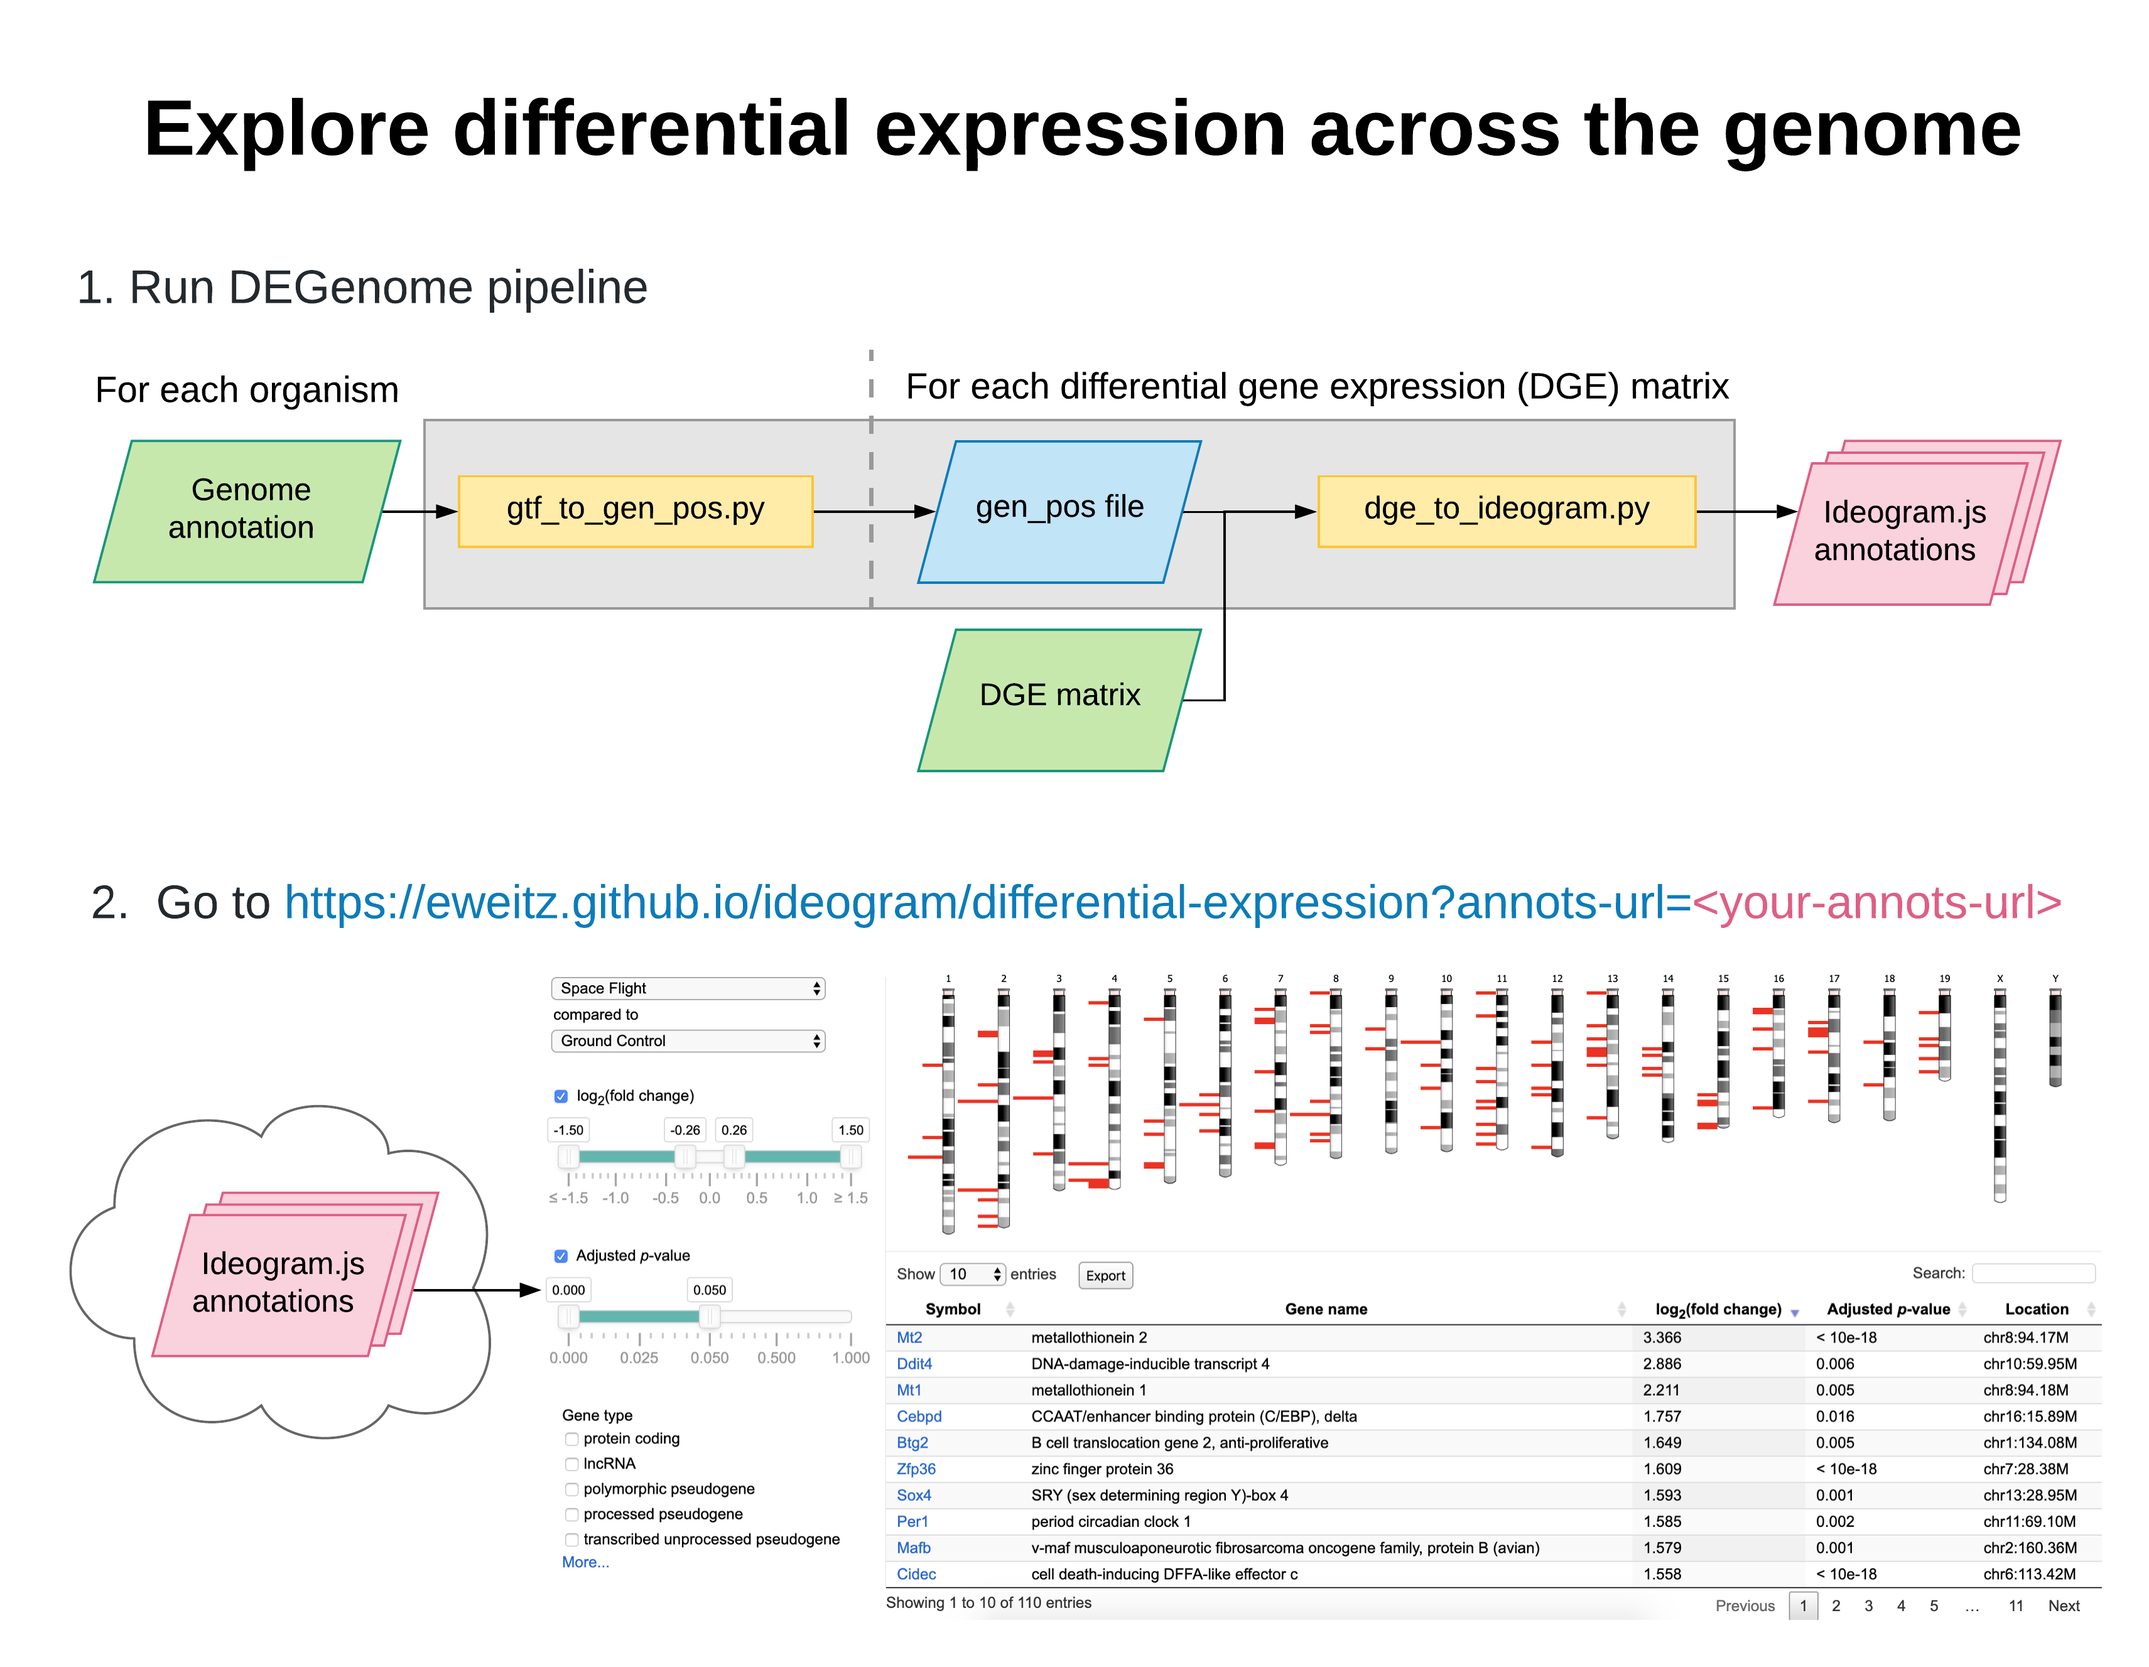
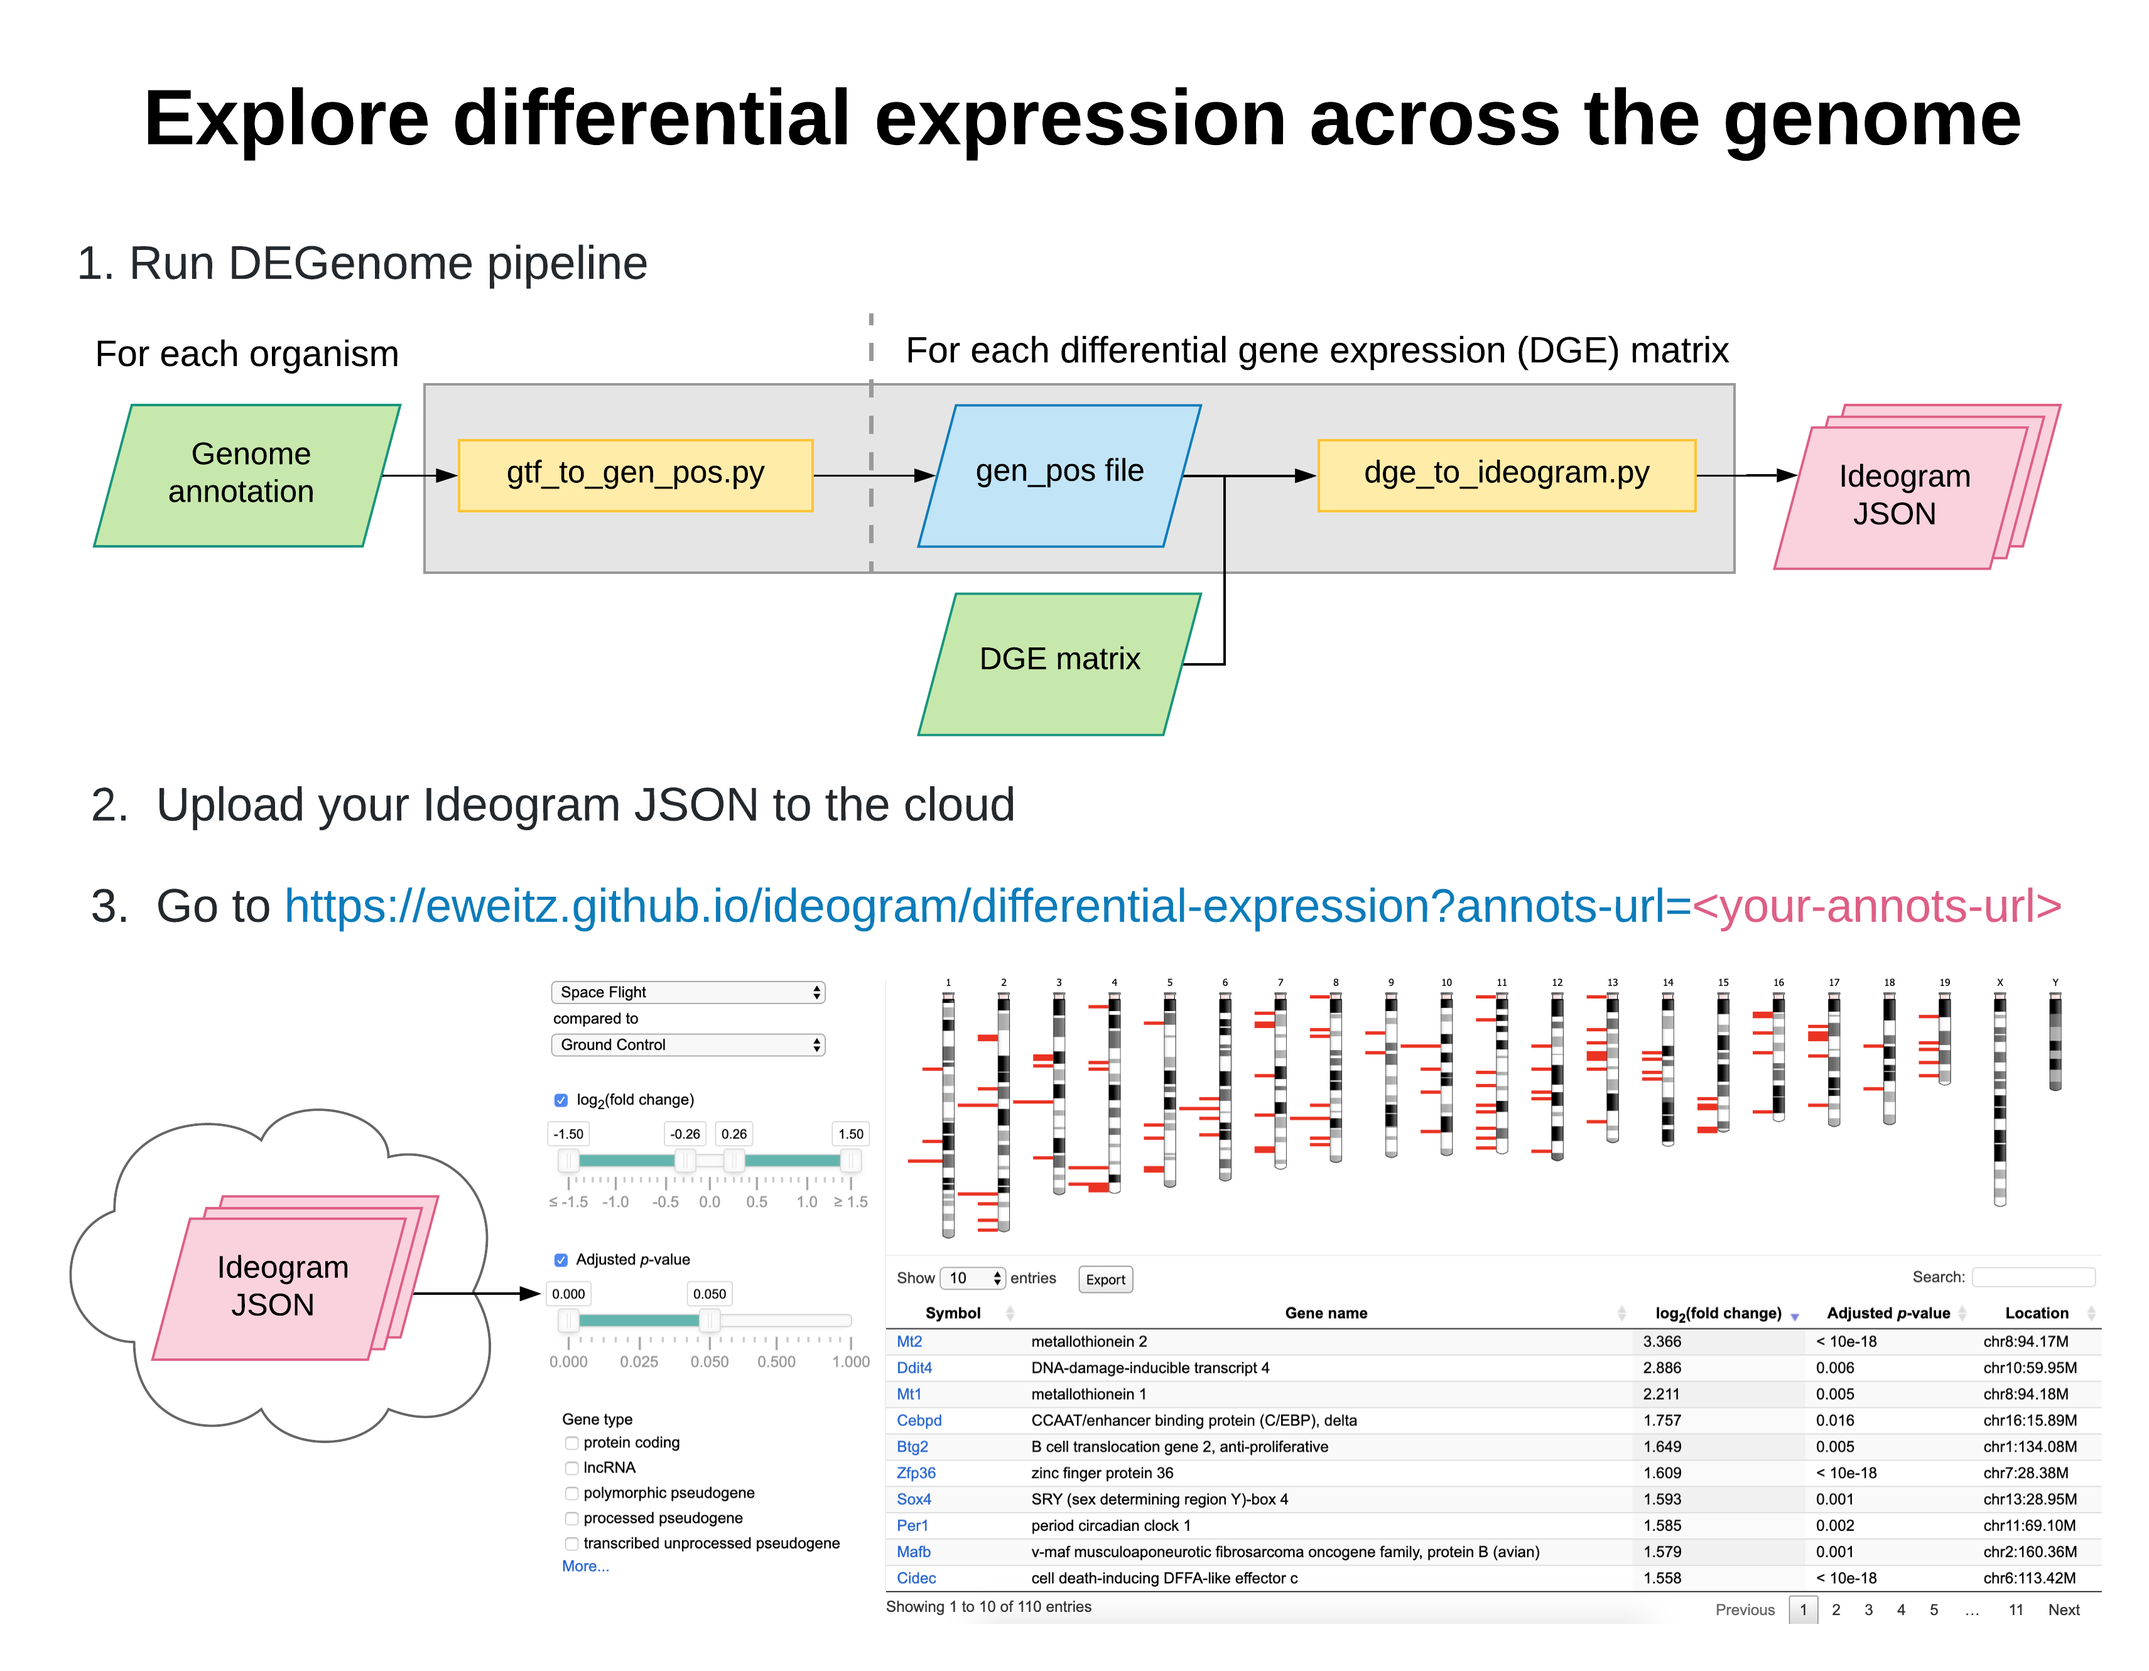
Update README, overview image, other docs

diff --git a/docs/_build/html/index.html b/docs/_build/html/index.html
@@ -4,7 +4,7 @@
 <html xmlns="http://www.w3.org/1999/xhtml">
   <head>
     <meta charset="utf-8" />
-    <title>Welcome to ideogram-dge’s documentation! &#8212; ideogram-dge 0.1 documentation</title>
+    <title>DEGenome – Differential expression across the genome &#8212; degenome 0.1 documentation</title>
     <link rel="stylesheet" href="_static/alabaster.css" type="text/css" />
     <link rel="stylesheet" href="_static/pygments.css" type="text/css" />
     <script type="text/javascript" id="documentation_options" data-url_root="./" src="_static/documentation_options.js"></script>
@@ -31,23 +31,17 @@
 
           <div class="body" role="main">
             
-  <div class="section" id="welcome-to-ideogram-dge-s-documentation">
-<h1>Welcome to ideogram-dge’s documentation!<a class="headerlink" href="#welcome-to-ideogram-dge-s-documentation" title="Permalink to this headline">¶</a></h1>
-<div class="toctree-wrapper compound">
-<p class="caption"><span class="caption-text">Contents:</span></p>
-<ul>
-<li class="toctree-l1"><a class="reference internal" href="installation.html">Installation</a></li>
-</ul>
-</div>
+  <div class="section" id="degenome-differential-expression-across-the-genome">
+<h1>DEGenome – Differential expression across the genome<a class="headerlink" href="#degenome-differential-expression-across-the-genome" title="Permalink to this headline">¶</a></h1>
+<p>DEGenome transforms differential gene expression (DGE) data to <a class="reference external" href="https://github.com/eweitz/ideogram">Ideogram</a> JSON.</p>
+<p>Written in Python, the DEGenome pipeline takes in genome annotations and DGE
+matrices, and outputs Ideogram.js JSON annotation files.</p>
+<p>You can then upload Ideogram JSON to the cloud, and explore it in an
+interactive genome visualization at
+<a class="reference external" href="https://eweitz.github.io/ideogram/differential-expression">https://eweitz.github.io/ideogram/differential-expression</a>.</p>
 <a class="reference internal image-reference" href="_images/explore_differential_expression_across_the_genome.png"><img alt="Explore differential expression across the genome" src="_images/explore_differential_expression_across_the_genome.png" style="width: 600px;" /></a>
+<div class="toctree-wrapper compound">
 </div>
-<div class="section" id="indices-and-tables">
-<h1>Indices and tables<a class="headerlink" href="#indices-and-tables" title="Permalink to this headline">¶</a></h1>
-<ul class="simple">
-<li><p><a class="reference internal" href="genindex.html"><span class="std std-ref">Index</span></a></p></li>
-<li><p><a class="reference internal" href="py-modindex.html"><span class="std std-ref">Module Index</span></a></p></li>
-<li><p><a class="reference internal" href="search.html"><span class="std std-ref">Search Page</span></a></p></li>
-</ul>
 </div>
 
 
@@ -57,7 +51,7 @@
       </div>
       <div class="sphinxsidebar" role="navigation" aria-label="main navigation">
         <div class="sphinxsidebarwrapper">
-<h1 class="logo"><a href="#">ideogram-dge</a></h1>
+<h1 class="logo"><a href="#">degenome</a></h1>
 
 
 
@@ -67,7 +61,6 @@
 
 
 <h3>Navigation</h3>
-<p class="caption"><span class="caption-text">Contents:</span></p>
 <ul>
 <li class="toctree-l1"><a class="reference internal" href="installation.html">Installation</a></li>
 </ul>
@@ -103,9 +96,9 @@
       <div class="clearer"></div>
     </div>
     <div class="footer">
-      &copy;2020, Eric Weitz.
       
-      |
+      
+      
       Powered by <a href="http://sphinx-doc.org/">Sphinx 2.3.1</a>
       &amp; <a href="https://github.com/bitprophet/alabaster">Alabaster 0.7.12</a>
       

diff --git a/docs/_build/html/installation.html b/docs/_build/html/installation.html
@@ -4,7 +4,7 @@
 <html xmlns="http://www.w3.org/1999/xhtml">
   <head>
     <meta charset="utf-8" />
-    <title>Installation &#8212; ideogram-dge 0.1 documentation</title>
+    <title>Installation &#8212; degenome 0.1 documentation</title>
     <link rel="stylesheet" href="_static/alabaster.css" type="text/css" />
     <link rel="stylesheet" href="_static/pygments.css" type="text/css" />
     <script type="text/javascript" id="documentation_options" data-url_root="./" src="_static/documentation_options.js"></script>
@@ -14,6 +14,7 @@
     <script type="text/javascript" src="_static/language_data.js"></script>
     <link rel="index" title="Index" href="genindex.html" />
     <link rel="search" title="Search" href="search.html" />
+    <link rel="prev" title="DEGenome – Differential expression across the genome" href="index.html" />
    
   <link rel="stylesheet" href="_static/custom.css" type="text/css" />
   
@@ -36,7 +37,6 @@
 <div class="highlight-default notranslate"><div class="highlight"><pre><span></span><span class="n">git</span> <span class="n">clone</span> <span class="n">https</span><span class="p">:</span><span class="o">//</span><span class="n">github</span><span class="o">.</span><span class="n">com</span><span class="o">/</span><span class="n">eweitz</span><span class="o">/</span><span class="n">degenome</span>
 </pre></div>
 </div>
-<p>Then you</p>
 </div>
 
 
@@ -46,7 +46,7 @@
       </div>
       <div class="sphinxsidebar" role="navigation" aria-label="main navigation">
         <div class="sphinxsidebarwrapper">
-<h1 class="logo"><a href="index.html">ideogram-dge</a></h1>
+<h1 class="logo"><a href="index.html">degenome</a></h1>
 
 
 
@@ -56,11 +56,15 @@
 
 
 <h3>Navigation</h3>
+<ul class="current">
+<li class="toctree-l1 current"><a class="current reference internal" href="#">Installation</a></li>
+</ul>
 
 <div class="relations">
 <h3>Related Topics</h3>
 <ul>
   <li><a href="index.html">Documentation overview</a><ul>
+      <li>Previous: <a href="index.html" title="previous chapter">DEGenome – Differential expression across the genome</a></li>
   </ul></li>
 </ul>
 </div>
@@ -87,9 +91,9 @@
       <div class="clearer"></div>
     </div>
     <div class="footer">
-      &copy;2020, Eric Weitz.
       
-      |
+      
+      
       Powered by <a href="http://sphinx-doc.org/">Sphinx 2.3.1</a>
       &amp; <a href="https://github.com/bitprophet/alabaster">Alabaster 0.7.12</a>
       

diff --git a/docs/_build/html/searchindex.js b/docs/_build/html/searchindex.js
@@ -1,1 +1,1 @@
-Search.setIndex({docnames:["index","installation"],envversion:{"sphinx.domains.c":1,"sphinx.domains.changeset":1,"sphinx.domains.citation":1,"sphinx.domains.cpp":1,"sphinx.domains.javascript":1,"sphinx.domains.math":2,"sphinx.domains.python":1,"sphinx.domains.rst":1,"sphinx.domains.std":1,sphinx:56},filenames:["index.rst","installation.rst"],objects:{},objnames:{},objtypes:{},terms:{Then:1,clone:1,com:1,content:0,degenom:1,eweitz:1,git:1,github:1,http:1,index:0,instal:0,modul:0,page:0,run:1,search:0,you:1},titles:["Welcome to ideogram-dge\u2019s documentation!","Installation"],titleterms:{dge:0,document:0,ideogram:0,indic:0,instal:1,tabl:0,welcom:0}})
+Search.setIndex({docnames:["index","installation"],envversion:{"sphinx.domains.c":1,"sphinx.domains.changeset":1,"sphinx.domains.citation":1,"sphinx.domains.cpp":1,"sphinx.domains.javascript":1,"sphinx.domains.math":2,"sphinx.domains.python":1,"sphinx.domains.rst":1,"sphinx.domains.std":1,sphinx:56},filenames:["index.rst","installation.rst"],objects:{},objnames:{},objtypes:{},terms:{Then:[],annot:0,can:0,clone:1,cloud:0,com:1,content:[],data:0,degenom:1,dge:0,eweitz:[0,1],explor:0,file:0,gene:0,git:1,github:[0,1],http:[0,1],ideogram:0,index:[],instal:[],inter:[],interact:0,json:0,matric:0,modul:[],output:0,page:[],pipelin:0,python:0,run:1,search:[],server:[],take:0,thi:[],transform:0,upload:0,visual:0,written:0,you:0,your:[]},titles:["DEGenome \u2013 Differential expression across the genome","Installation"],titleterms:{across:0,degenom:0,dge:[],differenti:0,document:[],express:0,genom:0,ideogram:[],indic:[],instal:1,tabl:[],welcom:[]}})

diff --git a/docs/_build/html/genindex.html b/docs/_build/html/genindex.html
@@ -5,7 +5,7 @@
 <html xmlns="http://www.w3.org/1999/xhtml">
   <head>
     <meta charset="utf-8" />
-    <title>Index &#8212; ideogram-dge 0.1 documentation</title>
+    <title>Index &#8212; degenome 0.1 documentation</title>
     <link rel="stylesheet" href="_static/alabaster.css" type="text/css" />
     <link rel="stylesheet" href="_static/pygments.css" type="text/css" />
     <script type="text/javascript" id="documentation_options" data-url_root="./" src="_static/documentation_options.js"></script>
@@ -45,7 +45,7 @@
       </div>
       <div class="sphinxsidebar" role="navigation" aria-label="main navigation">
         <div class="sphinxsidebarwrapper">
-<h1 class="logo"><a href="index.html">ideogram-dge</a></h1>
+<h1 class="logo"><a href="index.html">degenome</a></h1>
 
 
 
@@ -55,7 +55,6 @@
 
 
 <h3>Navigation</h3>
-<p class="caption"><span class="caption-text">Contents:</span></p>
 <ul>
 <li class="toctree-l1"><a class="reference internal" href="installation.html">Installation</a></li>
 </ul>
@@ -90,9 +89,9 @@
       <div class="clearer"></div>
     </div>
     <div class="footer">
-      &copy;2020, Eric Weitz.
       
-      |
+      
+      
       Powered by <a href="http://sphinx-doc.org/">Sphinx 2.3.1</a>
       &amp; <a href="https://github.com/bitprophet/alabaster">Alabaster 0.7.12</a>
       

diff --git a/docs/_build/html/search.html b/docs/_build/html/search.html
@@ -4,7 +4,7 @@
 <html xmlns="http://www.w3.org/1999/xhtml">
   <head>
     <meta charset="utf-8" />
-    <title>Search &#8212; ideogram-dge 0.1 documentation</title>
+    <title>Search &#8212; degenome 0.1 documentation</title>
     <link rel="stylesheet" href="_static/alabaster.css" type="text/css" />
     <link rel="stylesheet" href="_static/pygments.css" type="text/css" />
     
@@ -65,7 +65,7 @@
       </div>
       <div class="sphinxsidebar" role="navigation" aria-label="main navigation">
         <div class="sphinxsidebarwrapper">
-<h1 class="logo"><a href="index.html">ideogram-dge</a></h1>
+<h1 class="logo"><a href="index.html">degenome</a></h1>
 
 
 
@@ -75,7 +75,6 @@
 
 
 <h3>Navigation</h3>
-<p class="caption"><span class="caption-text">Contents:</span></p>
 <ul>
 <li class="toctree-l1"><a class="reference internal" href="installation.html">Installation</a></li>
 </ul>
@@ -100,9 +99,9 @@
       <div class="clearer"></div>
     </div>
     <div class="footer">
-      &copy;2020, Eric Weitz.
       
-      |
+      
+      
       Powered by <a href="http://sphinx-doc.org/">Sphinx 2.3.1</a>
       &amp; <a href="https://github.com/bitprophet/alabaster">Alabaster 0.7.12</a>
       

diff --git a/docs/conf.py b/docs/conf.py
@@ -17,9 +17,12 @@
 
 # -- Project information -----------------------------------------------------
 
-project = 'ideogram-dge'
-copyright = '2020, Eric Weitz'
+project = 'degenome'
+copyright = 'Public domain (CC0-1.0), Eric Weitz'
 author = 'Eric Weitz'
+
+show_authors = True
+html_show_copyright = False
 
 # The full version, including alpha/beta/rc tags
 release = '0.1'

diff --git a/README.rst b/README.rst
@@ -1,14 +1,17 @@
 DEGenome – Differential expression across the genome
 ====================================================
 
-DEGenome is a pipeline that transforms differential gene expression (DGE) data
-to Ideogram.js_ annotations.  Written in Python, it takes in genome annotations
-and DGE matrices, and outputs Ideogram JSON files.  You can then upload Ideogram
-JSON to your server, and explore it in an interative genome visualization at
+DEGenome transforms differential gene expression (DGE) data to Ideogram_ JSON.
+
+Written in Python, the DEGenome pipeline takes in genome annotations and DGE
+matrices, and outputs Ideogram.js JSON annotation files.
+
+You can then upload Ideogram JSON to the cloud, and explore it in an
+interactive genome visualization at
 https://eweitz.github.io/ideogram/differential-expression.
 
-.. image:: docs/images/explore_differential_expression_across_the_genome.png
+.. image:: images/explore_differential_expression_across_the_genome.png
   :width: 600
   :alt: Explore differential expression across the genome
 
-.. _Ideogram.js: https://github.com/eweitz/ideogram
+.. _Ideogram: https://github.com/eweitz/ideogram

diff --git a/docs/index.rst b/docs/index.rst
@@ -1,25 +1,8 @@
-.. ideogram-dge documentation master file, created by
-   sphinx-quickstart on Sat Jan 11 21:21:50 2020.
-   You can adapt this file completely to your liking, but it should at least
-   contain the root `toctree` directive.
+.. include:: ../README.rst
 
-Welcome to ideogram-dge's documentation!
-========================================
 
 .. toctree::
    :maxdepth: 2
-   :caption: Contents:
+   :hidden:
 
    installation
-
-.. image:: images/explore_differential_expression_across_the_genome.png
-  :width: 600
-  :alt: Explore differential expression across the genome
-
-
-Indices and tables
-==================
-
-* :ref:`genindex`
-* :ref:`modindex`
-* :ref:`search`

diff --git a/docs/installation.rst b/docs/installation.rst
@@ -5,4 +5,3 @@ Run::
 
     git clone https://github.com/eweitz/degenome
 
-Then you 
